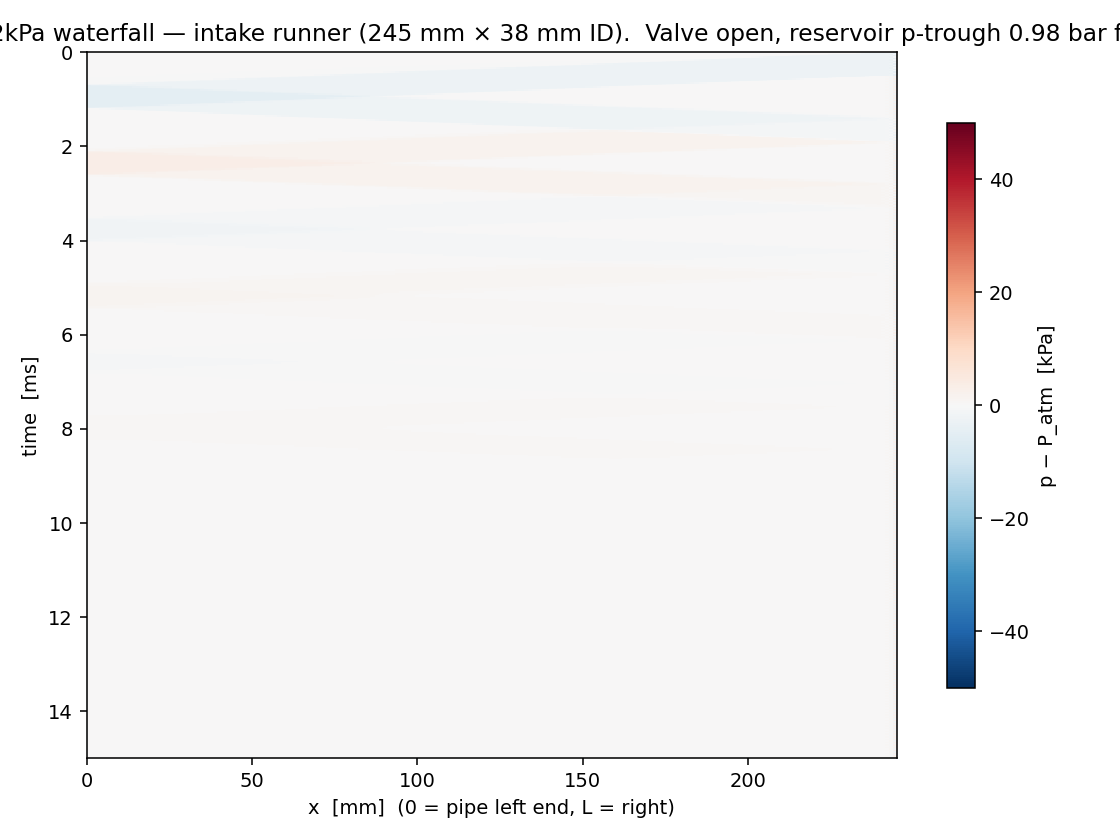
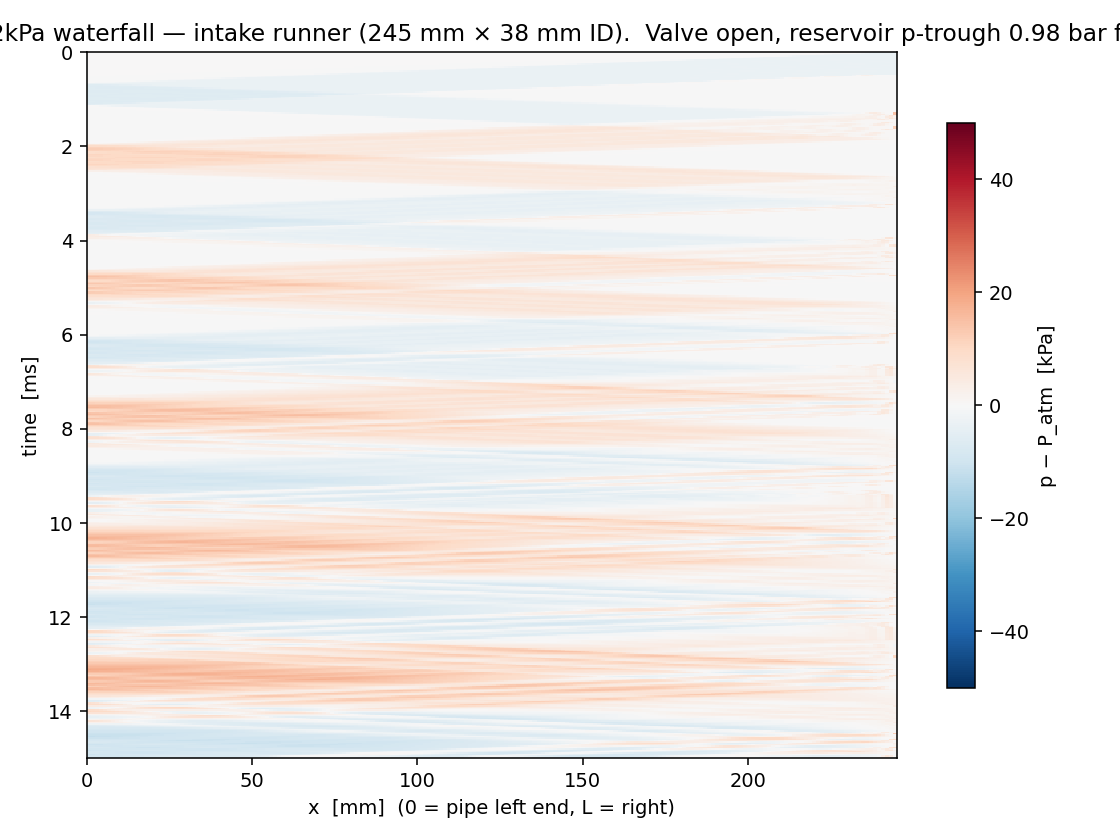
Phase C2: characteristic-correct plenum BC
Adds bcs/subsonic.py:fill_subsonic_inflow_left_characteristic.

The original fill_subsonic_inflow_left was diagnosed as absorbing in
the Phase A audit (R_plenum ≈ -0.07 instead of the physical -1 for a
constant-pressure reservoir). The implementation imposed all 4
primitives in the ghost cells, which over-determines the BC for
subsonic inflow (only 3 incoming characteristics; the outgoing
acoustic invariant from the interior is ignored). The function's own
docstring already flagged this as "mildly overdetermined" — a
placeholder that the engine model never actually used.

The new BC imposes 2 conditions from the reservoir (stagnation
enthalpy h₀ and entropy s₀) and takes 1 outgoing acoustic invariant
J⁻ from the interior. The energy + J⁻ pair pin (c_face, u_face) via a
quadratic; (ρ_face, p_face) follow from the reservoir entropy
constant K = p_res / ρ_res^γ. Cold-start fallback (energy + J system
degenerate) sets ghost = reservoir; harmless because at startup
there are no waves to absorb.

The legacy fill_subsonic_inflow_left is kept under its original name
for back-compat with two existing nozzle / friction-heat regression
tests (test_friction_heat.test_friction_darcy_weisbach_low_mach and
test_nozzle.*) which use it as a "set the face state directly"
driver — those tests rely on the over-determined behavior and would
break with the characteristic version.

A2 acoustic test switched to the characteristic version. The plenum-
[…]

diff --git a/bcs/subsonic.py b/bcs/subsonic.py
@@ -1,18 +1,42 @@
-"""Subsonic inflow and back-pressure outflow BCs for steady nozzle tests.
+"""Subsonic inflow and back-pressure outflow BCs.
 
-These are simple over-prescribed BCs suitable for steady quasi-1D nozzle
-validation. They are NOT characteristic-correct and must not be used in
-the engine model. The engine uses purpose-specific ghost-cell BCs.
+Two flavors of subsonic-inflow BC are provided:
 
-Subsonic inflow: we impose all four primitives (ρ, u, p, Y) in the ghost
-cells. For a true 1D subsonic inflow only 3 characteristics enter, so this
-is mildly overdetermined. For a prescribed steady state it is adequate:
-the simulation discards the outgoing characteristic and settles to the
-prescribed state.
+- ``fill_subsonic_inflow_left`` — original 4-primitive (over-determined)
+  imposition. Kept for back-compat with existing nozzle and friction
+  validation tests, which use it to "set the face state directly" for
+  driven-flow validations (where the imposed static pressure +
+  prescribed velocity is the intended behavior). The acoustic-BC audit
+  diagnosed it as absorbing for incident waves (R_plenum ≈ −0.07
+  instead of the physical −1; see
+  ``docs/acoustic_diagnosis/findings.md``), so it must NOT be used in
+  the engine model or anywhere wave reflection matters.
 
-Subsonic outflow: we impose p in the ghost cells and extrapolate ρ, u, Y
-from the adjacent interior cell. Only 1 characteristic enters, so this is
-correct for subsonic outflow.
+- ``fill_subsonic_inflow_left_characteristic`` — Phase C2 (2026-04-14)
+  characteristic-correct subsonic inflow for a stagnation reservoir.
+  Imposes 2 conditions from the reservoir (stagnation enthalpy h₀ +
+  entropy s₀ derived from the supplied (rho, p, T) treated as
+  stagnation values) and takes 1 outgoing acoustic invariant J⁻ from
+  the interior. The supplied ``u`` argument is ignored (a stagnation
+  reservoir is by definition u = 0). Standard CFD treatment per Toro
+  § 6.3 / Hirsch Vol. 2 Ch. 19; reflects acoustic waves with R = −1 in
+  the linear limit. **This is the function to use in production / the
+  engine model.**
+
+Subsonic outflow (``fill_subsonic_outflow_right``): imposes p in the
+ghost cells and extrapolates ρ, u, Y from the adjacent interior cell.
+1 characteristic enters → 1 condition imposed; this BC is already
+characteristic-correct for subsonic outflow.
+
+Degenerate cold-start: when the interior is at rest with c_int ≈ c_0
+(stagnation sound speed of the reservoir), the characteristic +
+energy system has only the trivial u_face = 0 solution (no
+characteristic-consistent way to spin up flow from rest). In that
+case the BC falls back to imposing the reservoir state (effectively
+the over-determined behavior). This is harmless because (a) at
+startup there are no waves to absorb and (b) once any non-trivial
+acoustic content reaches the interior, u_int develops and the
+characteristic path takes over.
 """
 
 from __future__ import annotations
@@ -22,7 +46,16 @@ import numpy as np
 from solver.state import PipeState, I_RHO_A, I_MOM_A, I_E_A, I_Y_A
 
 
-def fill_subsonic_inflow_left(state: PipeState, rho: float, u: float, p: float, Y: float) -> None:
+# ---------------------------------------------------------------------------
+# OVER-DETERMINED BC (back-compat, used by existing driven-flow tests)
+# ---------------------------------------------------------------------------
+
+def fill_subsonic_inflow_left(
+    state: PipeState, rho: float, u: float, p: float, Y: float,
+) -> None:
+    """Original 4-primitive imposition. Acoustically absorbing for
+    incident waves; do not use where wave reflection matters. See module
+    docstring."""
     ng = state.n_ghost
     gamma = state.gamma
     gm1 = gamma - 1.0
@@ -33,6 +66,106 @@ def fill_subsonic_inflow_left(state: PipeState, rho: float, u: float, p: float, 
         state.q[i, I_MOM_A] = rho * u * A
         state.q[i, I_E_A]   = E * A
         state.q[i, I_Y_A]   = rho * Y * A
+
+
+# ---------------------------------------------------------------------------
+# CHARACTERISTIC-CORRECT BC (Phase C2 fix, 2026-04-14)
+# ---------------------------------------------------------------------------
+
+def fill_subsonic_inflow_left_characteristic(
+    state: PipeState, rho: float, u: float, p: float, Y: float,
+) -> None:
+    """Characteristic-based subsonic inflow at the LEFT boundary.
+
+    Replaces the legacy 4-primitive over-determined BC. Same call
+    signature for back-compat. The (rho, p) reservoir state is taken
+    from the call args; the supplied ``u`` argument is ignored
+    (stagnation reservoir is by definition u = 0). ``Y`` is used as
+    the reservoir composition.
+
+    For the LEFT boundary with subsonic inflow into the pipe (u_face > 0
+    expected) the characteristic count is:
+      λ₁ = u − c < 0 → outgoing  → take J⁻ from interior
+      λ₂ = u > 0     → incoming  → impose entropy s₀ from reservoir
+      λ₃ = u + c > 0 → incoming  → impose stagnation enthalpy h₀
+
+    The energy + J⁻ pair pins (c_face, u_face) via a quadratic
+    independent of p_face; (ρ_face, p_face) then follow from the
+    reservoir entropy K = p/ρ^γ.
+
+    Cold-start fallback: when the quadratic has no positive c_face or
+    the resulting u_face is non-positive (i.e. the interior cannot
+    support inflow at this reservoir condition), set ghost to the
+    reservoir state with u = 0. Acoustically transmissive at startup
+    only — see module docstring for why this is harmless.
+    """
+    ng = state.n_ghost
+    gamma = state.gamma
+    gm1 = gamma - 1.0
+    R_gas = state.R_gas
+
+    # Reservoir state. Note: the supplied `rho` is used as-is for the
+    # reservoir density (back-compat with the original signature). For
+    # most engine call sites, rho = p / (R·T_atm), so this is consistent.
+    rho_res = max(rho, 1e-20)
+    p_res = max(p, 1.0)
+    T_res = p_res / (rho_res * R_gas)
+
+    # Interior cell adjacent to the boundary face
+    A_pipe = state.area[ng]
+    rho_int = state.q[ng, I_RHO_A] / A_pipe
+    u_int = state.q[ng, I_MOM_A] / (rho_int * A_pipe)
+    E_int = state.q[ng, I_E_A] / A_pipe
+    p_int = max(gm1 * (E_int - 0.5 * rho_int * u_int * u_int), 1.0)
+    c_int = float(np.sqrt(max(gamma * p_int / max(rho_int, 1e-20), 1.0)))
+
+    # Characteristic outgoing invariant from interior:
+    J_minus = u_int - 2.0 * c_int / gm1
+
+    # Energy + J quadratic in c_face:
+    c_0_sq = gamma * R_gas * max(T_res, 100.0)
+    a_q = gamma + 1.0
+    b_q = 2.0 * J_minus * gm1
+    d_q = 0.5 * gm1 * gm1 * J_minus * J_minus - gm1 * c_0_sq
+    disc = b_q * b_q - 4.0 * a_q * d_q
+
+    use_fallback = False
+    rho_face = u_face = p_face = None
+    if disc >= 0.0:
+        sqrt_disc = float(np.sqrt(disc))
+        c_face = (-b_q + sqrt_disc) / (2.0 * a_q)
+        if c_face <= 0.0:
+            c_face = (-b_q - sqrt_disc) / (2.0 * a_q)
+        if c_face > 0.0 and np.isfinite(c_face):
+            u_face = J_minus + 2.0 * c_face / gm1
+            if u_face > 0.0:
+                # ρ from reservoir entropy K = p_res/ρ_res^γ
+                K = p_res / (rho_res ** gamma)
+                rho_face = (c_face * c_face / (gamma * K)) ** (1.0 / gm1)
+                p_face = K * rho_face ** gamma
+                if not (np.isfinite(rho_face) and np.isfinite(p_face)
+                        and rho_face > 0.0 and p_face > 0.0):
+                    use_fallback = True
+            else:
+                use_fallback = True
+        else:
+            use_fallback = True
+    else:
+        use_fallback = True
+
+    if use_fallback:
+        rho_face = rho_res
+        u_face = 0.0
+        p_face = p_res
+
+    Y_face = Y
+    E_face = p_face / gm1 + 0.5 * rho_face * u_face * u_face
+    for i in range(ng):
+        A = state.area[i]
+        state.q[i, I_RHO_A] = rho_face * A
+        state.q[i, I_MOM_A] = rho_face * u_face * A
+        state.q[i, I_E_A]   = E_face * A
+        state.q[i, I_Y_A]   = rho_face * Y_face * A
 
 
 def fill_subsonic_outflow_right(state: PipeState, p_back: float) -> None:

diff --git a/tests/acoustic/test_a2_intake_runner.py b/tests/acoustic/test_a2_intake_runner.py
@@ -51,8 +51,12 @@ import numpy as np
 import pytest
 
 from bcs.simple import fill_reflective_left
-from bcs.subsonic import fill_subsonic_inflow_left
-from bcs.valve import fill_valve_ghost
+# Phase C2 (2026-04-14): use the characteristic-correct plenum BC, replacing
+# the over-determined fill_subsonic_inflow_left that the audit identified as
+# absorbing (R_plenum ≈ −0.07).
+from bcs.subsonic import fill_subsonic_inflow_left_characteristic as fill_subsonic_inflow_left
+# Phase C1 (2026-04-14): characteristic + orifice valve BC.
+from bcs.valve import fill_valve_ghost_characteristic as fill_valve_ghost
 from cylinder.valve import (
     INTAKE_CD_TABLE,
     INTAKE_LD_TABLE,
